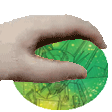
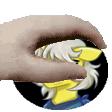
emoji_gif

Changed region(s): [[0.1071, 0.3482, 0.9643, 0.9911]]

diff --git a/plugins/emoji_gif.py b/plugins/emoji_gif.py
@@ -1,0 +1,65 @@
+import re
+from tkinter import E
+from typing import List
+import emoji
+import httpx
+import traceback
+from nonebot import on_regex,get_driver
+from nonebot.log import logger
+from nonebot.params import RegexDict #正则表达式匹配emoji参数
+from nonebot.adapters.onebot.v11 import MessageSegment,Event
+from .emoji_data import emojis,dates
+from .managementModule.isInGroup import isInGroup
+
+emoji_match=filter(lambda e:len(e)==1,emoji.EMOJI_DATA.keys())
+pattern="("+"|".join(re.escape(e) for e in emoji_match)+")"
+
+API = "https://www.emojiall.com/images/60/telegram/"
+
+emojigif=on_regex(
+    rf"^\s*(?P<code1>{pattern})\s*gif$",
+)
+#emojicode是unicode码格式 
+@emojigif.handle()
+async def mix(event:Event,msg:dict=RegexDict()):
+    _,group,qq=str(event.get_session_id()).split("_")
+    if isInGroup(group,"emoji_gif")==0:
+        await emojigif.finish(None)
+    emoji_code1=msg["code1"]
+    result=await gif_emoji(emoji_code1)
+    if isinstance(result,str):
+        await emojigif.finish(result)
+    else :
+        await emojigif.finish(MessageSegment.image(result))
+
+def emoji_code(emoji):
+    return "-".join(map(lambda c:f"{c:x}",emoji))#
+
+def create_url(emoji1):
+    u1=emoji_code(emoji1)
+    return f"{API}/{u1}.gif"
+
+def find_emoji(emoji_code:str):
+    emoji_num=ord(emoji_code)#对于一个字符串返回unicode码值
+    for e in emojis:
+        if emoji_num in e:
+            return e
+    return None
+
+async def gif_emoji(emoji_code1:str):
+#emoji是
+    emoji1=find_emoji(emoji_code1)
+    if not emoji1:
+        return f"不支持该emoji{emoji_code1}"#本地data没有其中的一个emoji
+    url:str=""#初始化为str列表
+#遍历所有日期和mix的不同前后顺序的可能
+    url=create_url(emoji1)
+    try:#client在多次访问时保持原有TCP连接
+        async with httpx.AsyncClient(timeout=20) as client:  # type: ignore
+            resp = await client.get(url)
+            if resp.status_code == 200:
+                return resp.content
+            return f"该emoji暂无动图：{emoji_code1}"
+    except:
+        logger.warning(traceback.format_exc())
+        return "下载出错，请稍后再试"

diff --git a/plugins/night.py b/plugins/night.py
@@ -55,7 +55,7 @@ def getmsg(user_id:int,group_id:int):
         minutepre=f'{dateraw.minute}' if dateraw.minute>=10 else f'0{dateraw.minute}'
         secondpre=f'{dateraw.second}' if dateraw.second>=10 else f'0{dateraw.second}'
         if hournow<=4:
-            if (dateraw-dateyest).seconds<=28800:
+            if (dateraw-dateyest).seconds<=28800 and (dateraw-dateyest).days==0:
                 if int(user_id)==qq:
                     cur.close()
                     conn.close()
@@ -63,8 +63,8 @@ def getmsg(user_id:int,group_id:int):
                 else :
                     tnd=tnd+1
         elif hournow>=20:
-#            print(f"dateraw{dateraw} dateEight{dateEight} second{(dateraw-dateEight).seconds}")
-            if (dateraw-dateEight).seconds<=14400:
+            print(f"dateraw{dateraw} dateEight{dateEight} second{(dateraw-dateEight).seconds}")
+            if (dateraw-dateEight).seconds<=14400 and (dateraw-dateEight).days==0:
                 if int(user_id)==qq:
                     cur.close()
                     conn.close()

diff --git a/plugins/test.py b/plugins/test.py
@@ -1,0 +1,5 @@
+from datetime import datetime
+
+
+
+print((datetime(2022,9,15,23,17,32)-datetime(2022,9,14,23,2,33)).seconds)
